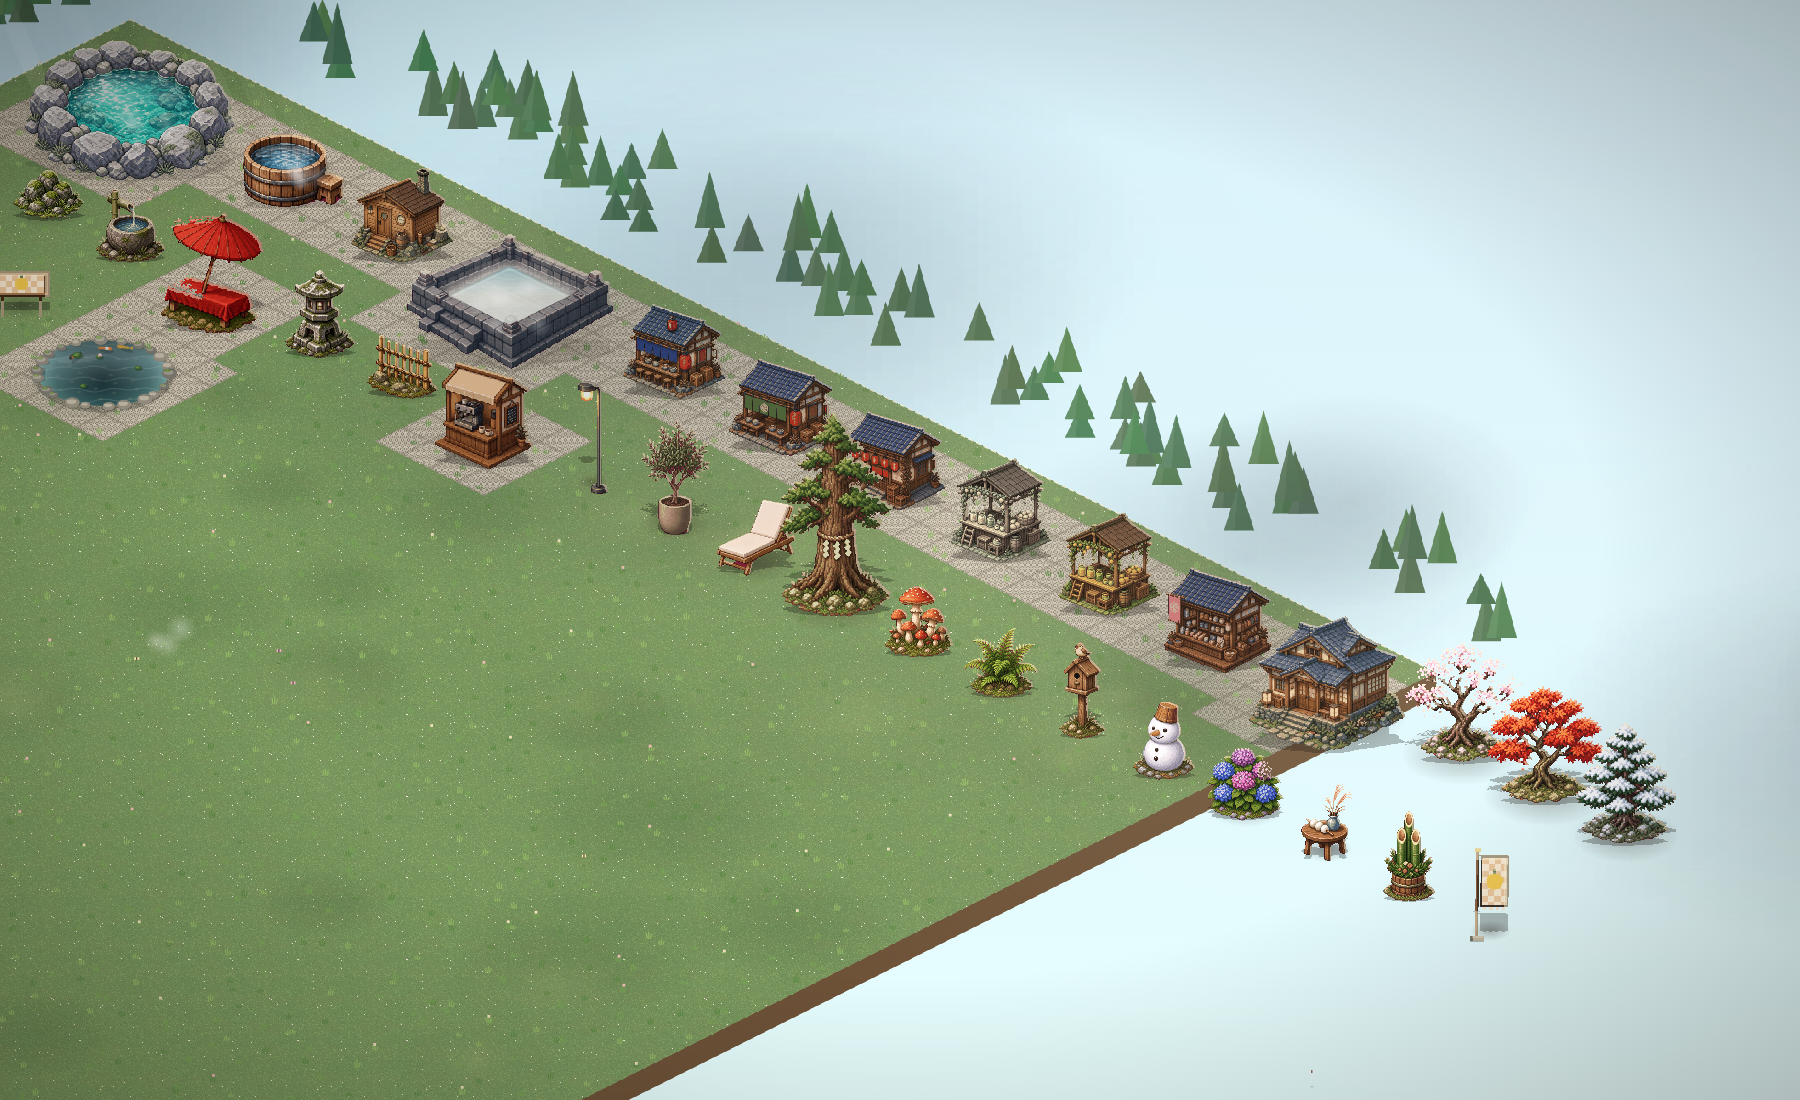
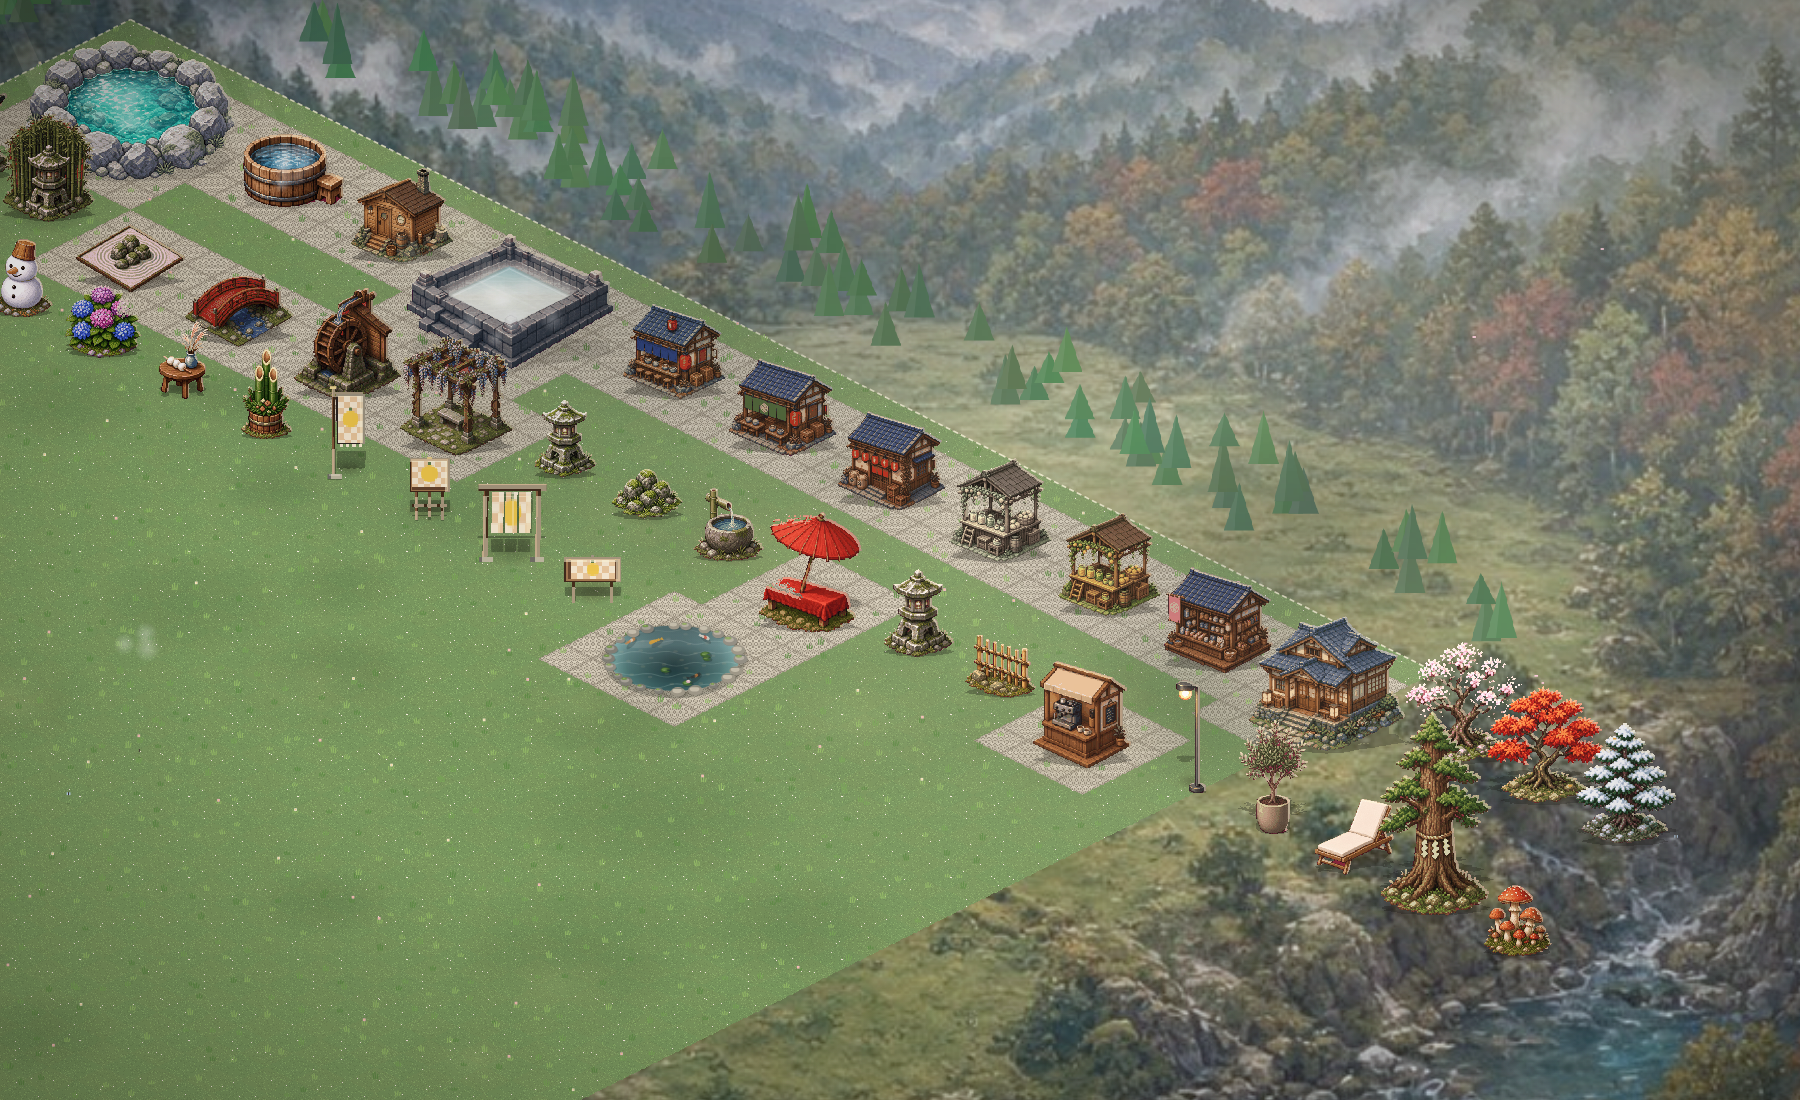
6 new decor items

diff --git a/game.js b/game.js
@@ -20,6 +20,12 @@ const DEF={
  sakura:{tree:1,n:'벚꽃나무',tab:'deco',img:'sakura',fp:1,sc:2.3,cost:1200,beauty:8,star:1,emit:'petal',desc:'꽃잎이 흩날려요'},
  maple:{tree:1,n:'단풍나무',tab:'deco',img:'maple',fp:1,sc:2.3,cost:1200,beauty:8,star:1,emit:'leaf',desc:'붉은 잎이 떨어져요'},
  pine:{tree:1,n:'눈 내린 소나무',tab:'deco',img:'pine',fp:1,sc:2.0,cost:2000,beauty:10,star:2,emit:'snow',desc:'주변에 눈이 내려요'},
+ torii:{n:'토리이',tab:'deco',img:'torii',fp:1,sc:1.6,cost:2200,beauty:9,star:1,desc:'붉은 토리이, 신성한 입구'},
+ bamboo:{n:'대나무 숲 석등',tab:'deco',img:'bamboo',fp:1,sc:1.7,cost:1800,beauty:8,star:1,light:[[0,-0.45]],desc:'바람에 사각이는 대숲'},
+ sandgarden:{n:'모래 정원',tab:'deco',img:'sandgarden',fp:2,sc:1,cost:4000,beauty:15,star:2,desc:'갈퀴로 다듬은 고요한 가레산스이'},
+ bridge:{n:'붉은 아치 다리',tab:'deco',img:'bridge',fp:2,sc:1,cost:5000,beauty:16,star:2,desc:'작은 개울 위 다이코바시'},
+ waterwheel:{n:'물레방아',tab:'deco',img:'waterwheel',fp:2,sc:1,cost:6000,beauty:18,star:3,desc:'졸졸 물소리와 함께 도는 물레방아'},
+ wisteria:{n:'등나무 정자',tab:'deco',img:'wisteria',fp:2,sc:1.05,cost:4500,beauty:16,star:2,desc:'보랏빛 등꽃 아래 돌벤치'},
  lantern:{n:'석등롱',tab:'deco',img:'lantern',fp:1,sc:1.25,cost:600,beauty:5,star:1,light:[[0,-0.55]],desc:'밤이면 은은히 빛나요'},
  rocks:{n:'정원석',tab:'deco',img:'rocks',fp:1,sc:1.4,cost:400,beauty:4,star:1,desc:'이끼 낀 정원석'},
  shishi:{set:'trad',n:'시시오도시',tab:'theme',img:'shishi',fp:1,sc:1.3,cost:1800,beauty:9,star:1,sound:'shishi',desc:'딱! 대나무 소리가 정원에 울려요'},
@@ -93,7 +99,7 @@ function avgNet(){const h=S.fin.hist;if(!h.length)return 0;const a=h.slice(-24);
 // ===== 에셋 =====
 const TIERED=['rock','hinoki','sauna','milky','ramen','teishoku','izakaya','yuzu','gift','room'];
 const IMG={},VAR=new Proxy({},{get(t,k){if(typeof k!='string'||t[k]||!k.includes('~m'))return t[k];const src=t[k.replace('~m','')];if(!src)return undefined;return t[k]={base:src.base,sil:src.sil,rimL:src.rimR,rimR:src.rimL,m:1}}}); // 좌우반전은 그릴 때 변환으로 처리(캔버스 추가 생성 없음)
-const NAMES=[...TIERED.flatMap(n=>[1,2,3,4,5].flatMap(l=>[n+'_lv'+l])),'rock','hinoki','sauna','milky','ramen','teishoku','izakaya','yuzu','gift','room','sakura','maple','pine','lantern','rocks','shishi','nodate','pagoda','bamboofence','cafe','lamppost','olive','lounger','cedar','mushroom','fern','birdhouse','snowman','hydrangea','tsukimi','kadomatsu','cb1','cb2','cb3','cb4','cw1','cw2','cw3','cw4','gate'];
+const NAMES=[...TIERED.flatMap(n=>[1,2,3,4,5].flatMap(l=>[n+'_lv'+l])),'rock','hinoki','sauna','milky','ramen','teishoku','izakaya','yuzu','gift','room','sakura','maple','pine','lantern','torii','bamboo','sandgarden','bridge','waterwheel','wisteria','rocks','shishi','nodate','pagoda','bamboofence','cafe','lamppost','olive','lounger','cedar','mushroom','fern','birdhouse','snowman','hydrangea','tsukimi','kadomatsu','cb1','cb2','cb3','cb4','cw1','cw2','cw3','cw4','gate'];
 function loadImgs(){return Promise.all(NAMES.map(n=>new Promise(r=>{const i=new Image();i.onload=()=>{IMG[n]=i;r()};i.onerror=r;i.src='assets/'+n+'.png'})))}
 // 멀티 레이어 스프라이트: 마스크 경로 순서대로 픽셀을 잘라 레이어로 분리 (나머지 = ground)
 const roofY=(x,W,H)=>H*(0.294+0.144*x/W);

diff --git a/CHANGELOG.md b/CHANGELOG.md
@@ -160,3 +160,4 @@
 - 메모리 누수 수정: 색 문자열 파싱 캐시(_gc)가 알파값마다 새 키를 만들어 4분에 67만 개·힙 90MB까지 증가 → 3000개 상한. 블롭 캐시 상한 300.
 - 연출 메뉴(fx.js): 불꽃 국화/버드나무/하트/불꽃놀이 대회, 불꽃 섬광, 등불 날리기, 반딧불, 벚꽃비, 눈, 무지개, 오로라, 축제 퍼레이드. 비용·쿨다운·등급 해금, 손님 만족도 소폭 상승. 고정 파티클 풀 1600 + 지속 연출 12개 상한, 유휴 시 그리기 생략.
 - 원경: 회화풍 계곡 배경(숲 산·강·안개·먼 산) 화면 공간 1장, 줌/이동 시차, 시간대·계절 색조. 절벽 옆면 제거, 잠긴 땅 안개를 옅게 해 풍경과 섞이도록.
+- 새 장식 6종: 토리이, 대나무 숲 석등, 모래 정원, 붉은 아치 다리, 물레방아, 등나무 정자 (45° 아이소, 같은 파이프라인).
